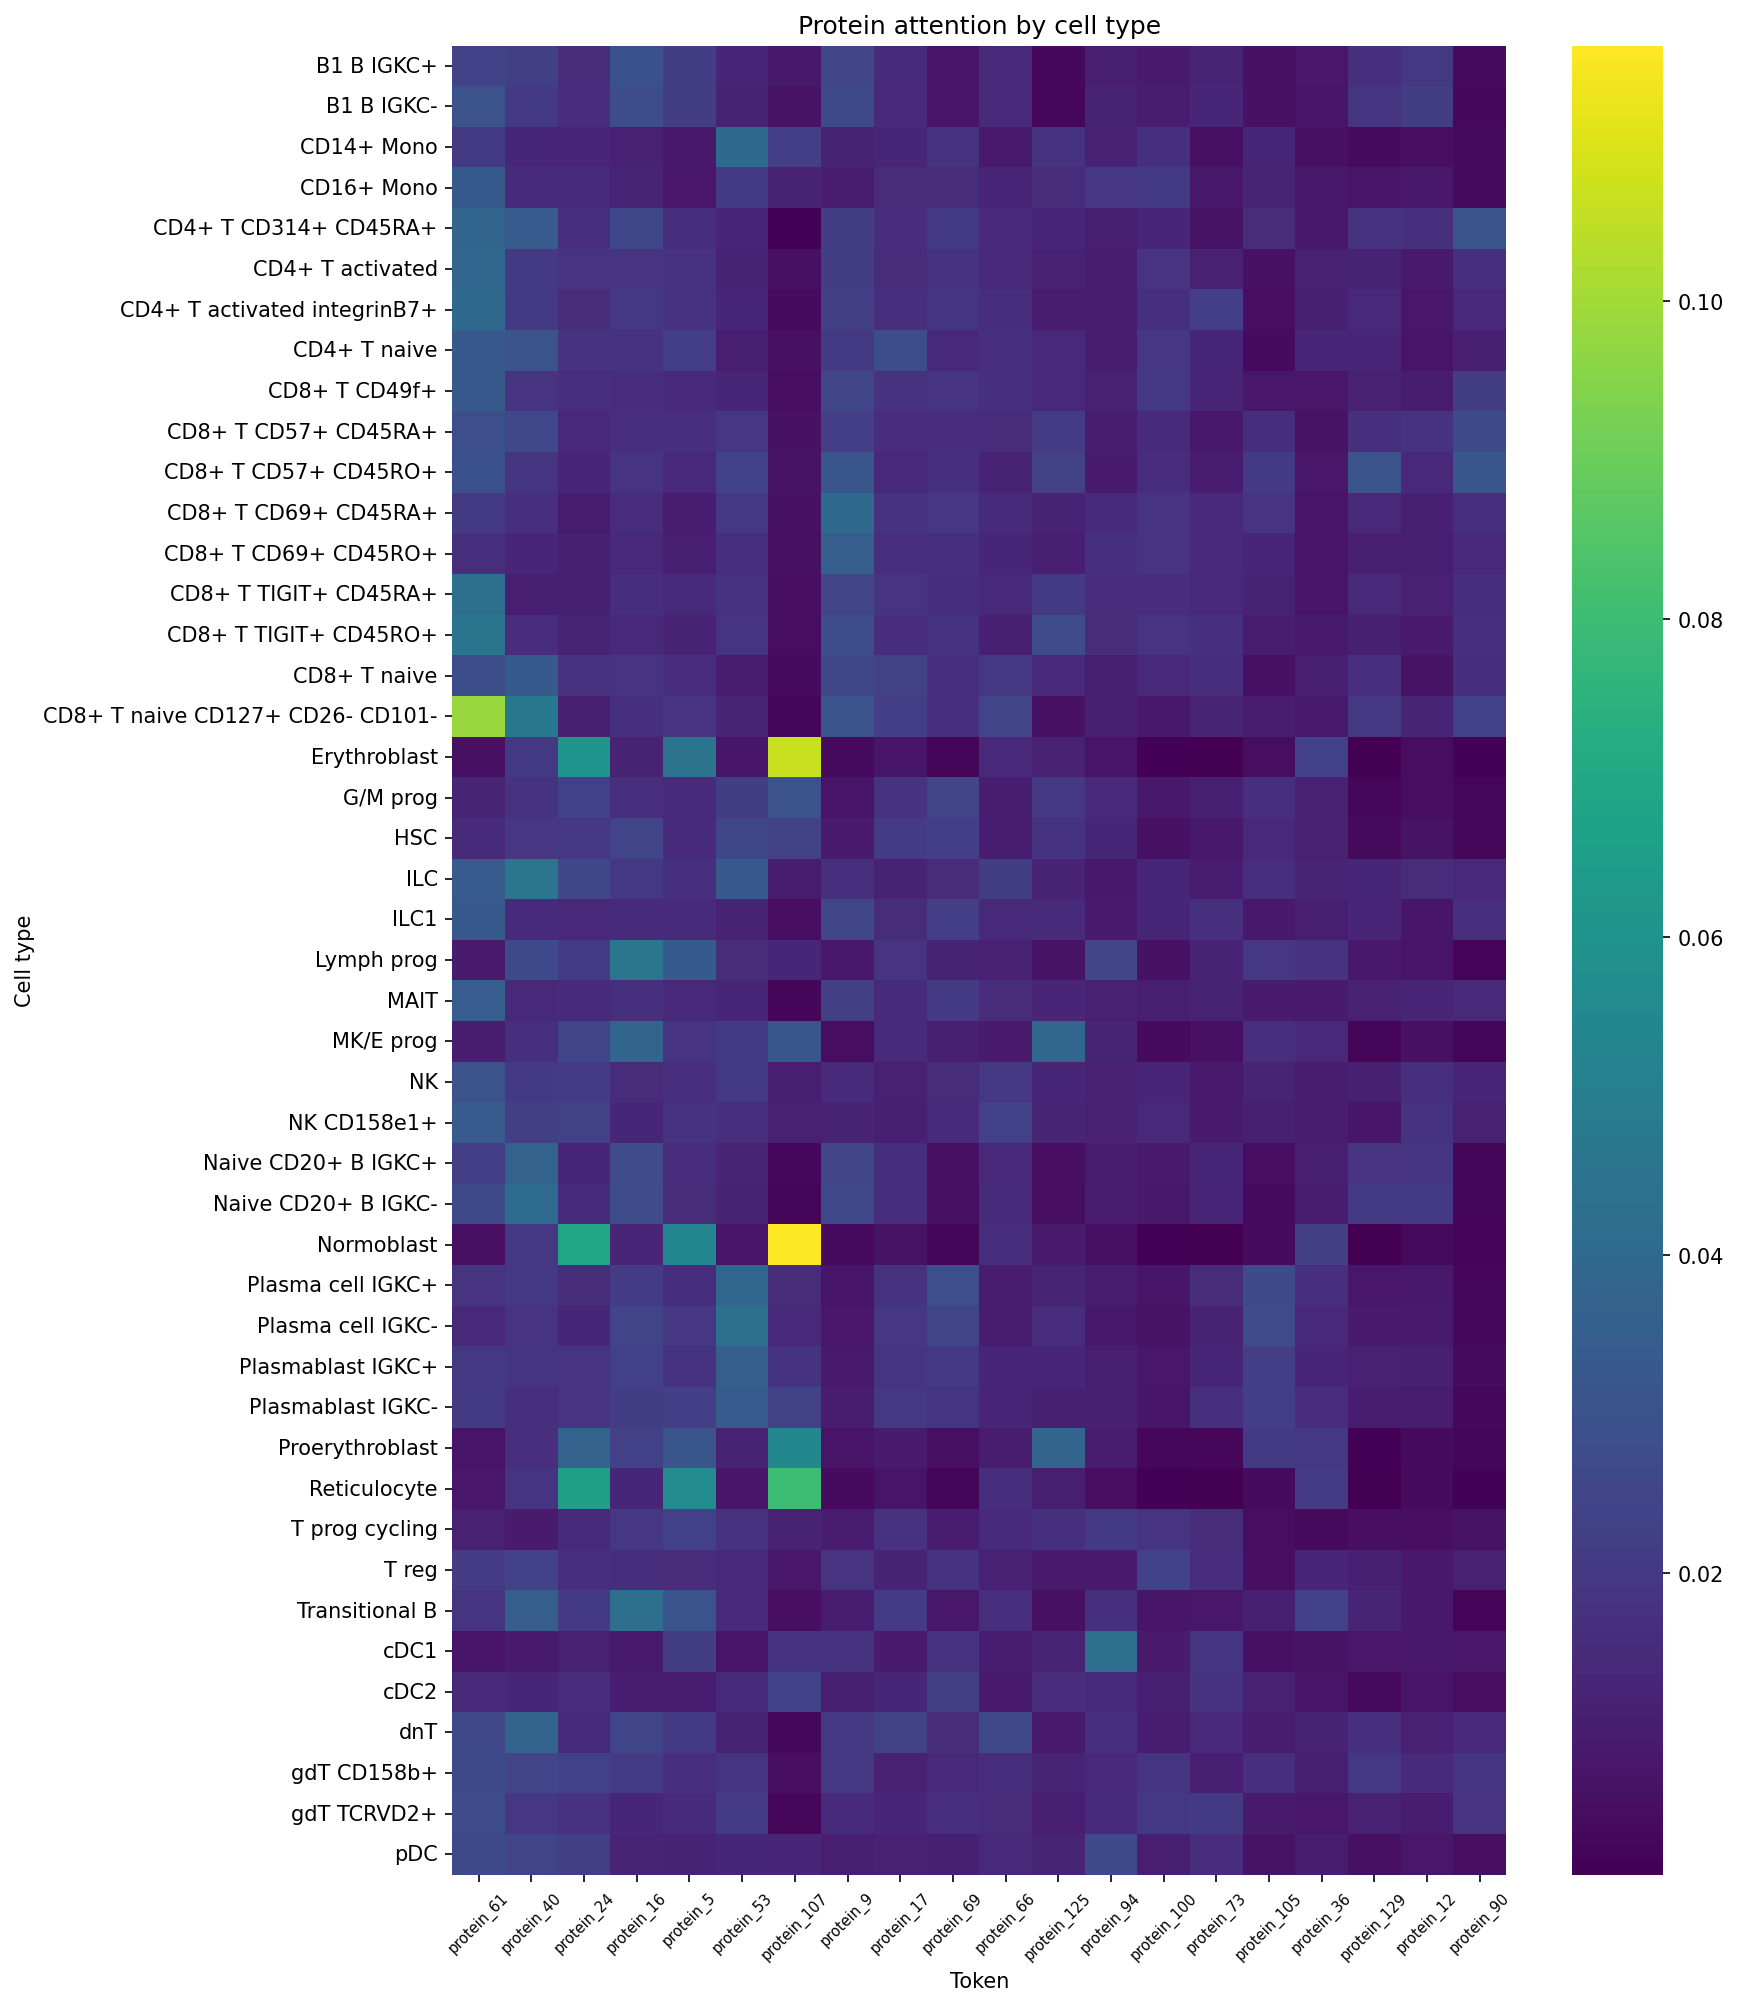
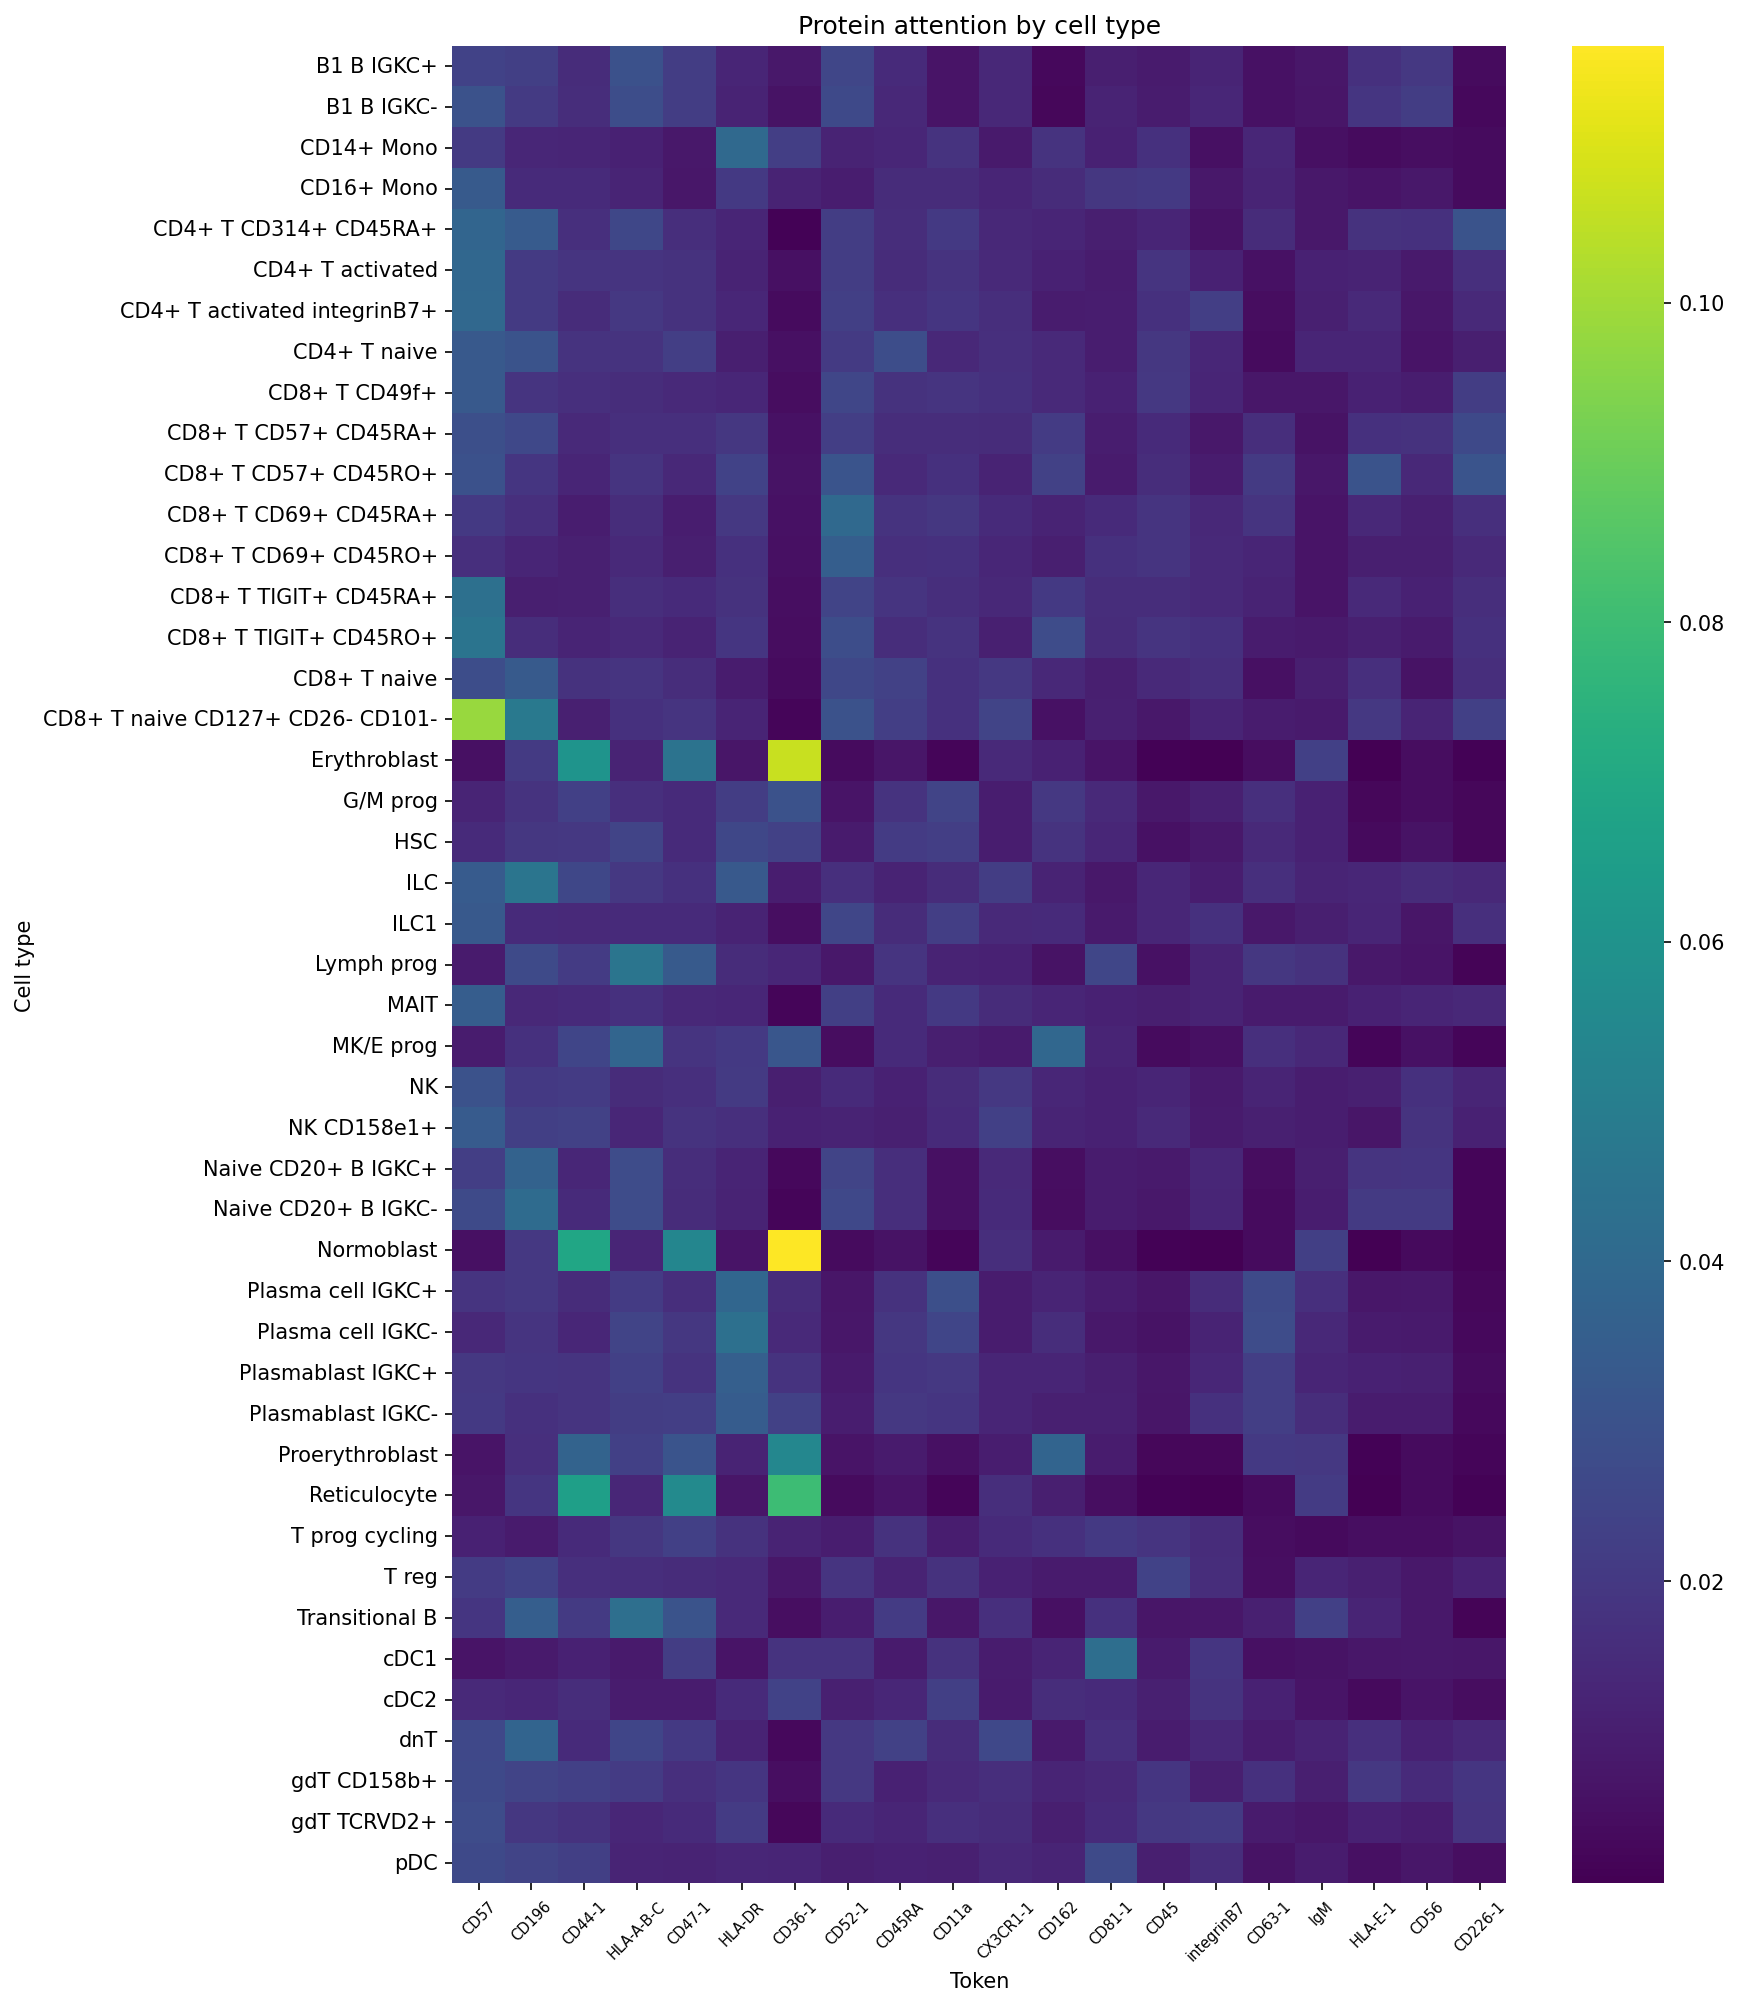
updated protein naming

diff --git a/src/attention_analysis.py b/src/attention_analysis.py
@@ -216,16 +216,26 @@ def plot_token_attention_per_cell_type(
     plt.close(fig)
 
 
-# Known biological markers for validation (CD3→T cells, CD19→B cells, etc.)
+# Known biological markers for validation. Keys must match BMMC cell_type labels
+# in adata.obs['cell_type']. Markers must exist in the ADT panel (134 proteins;
+# CD34 is notably absent, so HSC is validated via CD38 only).
 _DEFAULT_MARKERS = {
-    "HSC": ["CD34", "CD38"],
-    "B cell": ["CD19", "CD20"],
-    "Transitional B": ["CD19", "CD24"],
-    "CD4 T": ["CD3", "CD4"],
-    "CD8 T": ["CD3", "CD8"],
+    "HSC": ["CD38"],
     "NK": ["CD56", "CD16"],
-    "Monocyte": ["CD14", "CD11b"],
+    "Transitional B": ["CD19", "CD24"],
     "pDC": ["CD123", "CD303"],
+    "CD14+ Mono": ["CD14", "HLA-DR"],
+    "CD16+ Mono": ["CD16", "CD14"],
+    "CD4+ T naive": ["CD3", "CD4"],
+    "CD4+ T activated": ["CD3", "CD4"],
+    "CD8+ T naive": ["CD3", "CD8"],
+    "Naive CD20+ B IGKC+": ["CD19", "CD20"],
+    "Naive CD20+ B IGKC-": ["CD19", "CD20"],
+    "MAIT": ["CD3", "CD8"],
+    "T reg": ["CD3", "CD4"],
+    "Plasma cell IGKC+": ["CD38"],
+    "Plasma cell IGKC-": ["CD38"],
+    "cDC2": ["CD11c", "HLA-DR"],
 }
 
 
@@ -243,6 +253,11 @@ def main(argv: list[str] | None = None) -> None:
     )
     parser.add_argument("--top_k", type=int, default=10, help="Top-k tokens for marker validation")
     parser.add_argument("--top_n_heatmap", type=int, default=20, help="Max tokens in heatmap")
+    parser.add_argument(
+        "--data_path", type=str, default=None,
+        help="Fallback: path to .h5ad(.gz) to infer protein names "
+             "if protein_names.json is absent in --checkpoint_dir",
+    )
     args = parser.parse_args(argv)
 
     ckpt = Path(args.checkpoint_dir)
@@ -262,9 +277,37 @@ def main(argv: list[str] | None = None) -> None:
     with open(ckpt / "pathway_names.json", encoding="utf-8") as f:
         pathway_names: list[str] = json.load(f)
 
-    # Infer protein token names from attention shape (generic fallback)
     n_proteins = attn_protein.shape[1]
-    protein_names = [f"protein_{i}" for i in range(n_proteins)]
+    protein_names_path = ckpt / "protein_names.json"
+    if protein_names_path.exists():
+        with open(protein_names_path, encoding="utf-8") as f:
+            protein_names = json.load(f)
+        if len(protein_names) != n_proteins:
+            raise ValueError(
+                f"protein_names.json has {len(protein_names)} entries but "
+                f"attention has {n_proteins} tokens"
+            )
+    elif args.data_path is not None:
+        import anndata as ad
+        from src.preprocessing import load_data, split_modalities
+        adata = load_data(args.data_path)
+        if not adata.var_names.is_unique:
+            adata.var_names_make_unique()
+        _, protein_adata = split_modalities(adata)
+        protein_names = [str(n) for n in protein_adata.var_names]
+        if len(protein_names) != n_proteins:
+            raise ValueError(
+                f"Inferred {len(protein_names)} protein names from {args.data_path} "
+                f"but attention has {n_proteins} tokens"
+            )
+        # Persist for future runs on this checkpoint
+        with open(protein_names_path, "w", encoding="utf-8") as f:
+            json.dump(protein_names, f, indent=2)
+        print(f"Inferred and saved: {protein_names_path}")
+    else:
+        print("[warn] protein_names.json missing and --data_path not provided; "
+              "falling back to generic names (marker validation will fail).")
+        protein_names = [f"protein_{i}" for i in range(n_proteins)]
 
     print(f"Loaded: {attn_rna.shape[0]} cells, {attn_rna.shape[1]} pathways, "
           f"{n_proteins} proteins, {len(label_names)} cell types")

diff --git a/src/train_contrastive_tf.py b/src/train_contrastive_tf.py
@@ -555,6 +555,8 @@ def main(args: argparse.Namespace) -> None:
         json.dump({int(v): str(k) for k, v in label_mapping.items()}, f, indent=2)
     with open(run_dir / "pathway_names.json", "w", encoding="utf-8") as f:
         json.dump(pathway_names, f, indent=2)
+    with open(run_dir / "protein_names.json", "w", encoding="utf-8") as f:
+        json.dump([str(n) for n in protein_adata.var_names], f, indent=2)
     with open(run_dir / "metrics.json", "w", encoding="utf-8") as f:
         json.dump(
             _sanitize_json({
